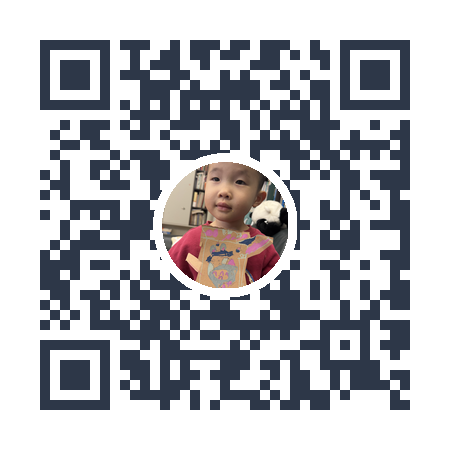
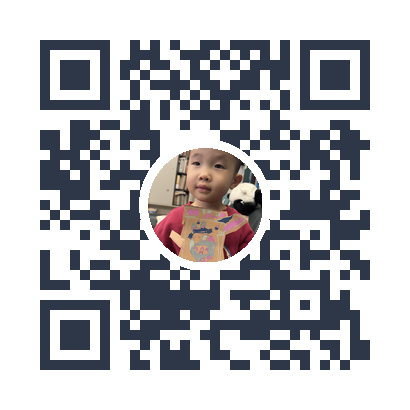
Update QR code to point to Cloudflare Pages

diff --git a/generate_qr.py b/generate_qr.py
@@ -8,8 +8,8 @@ import qrcode
 from PIL import Image, ImageDraw
 import os
 
-# GitHub Pages URL (will be updated after deployment)
-URL = "https://whdeacc.github.io/ysqrcode/"
+# Primary site for QR code – Cloudflare Pages (global CDN, fast everywhere)
+URL = "https://ysqrcode.pages.dev/"
 
 def create_totoro_image(size=150):
     """Create a cute Totoro character image."""
@@ -176,7 +176,7 @@ def main():
     generate_qr_with_photo(URL, output_path, photo_path)
     print("Done!")
     print(f"\nThe QR code links to: {URL}")
-    print("After pushing to GitHub and enabling GitHub Pages, the QR code will work!")
+    print("After pushing and enabling your Pages service (Gitee/GitHub), the QR code will work!")
 
 if __name__ == "__main__":
     main()
